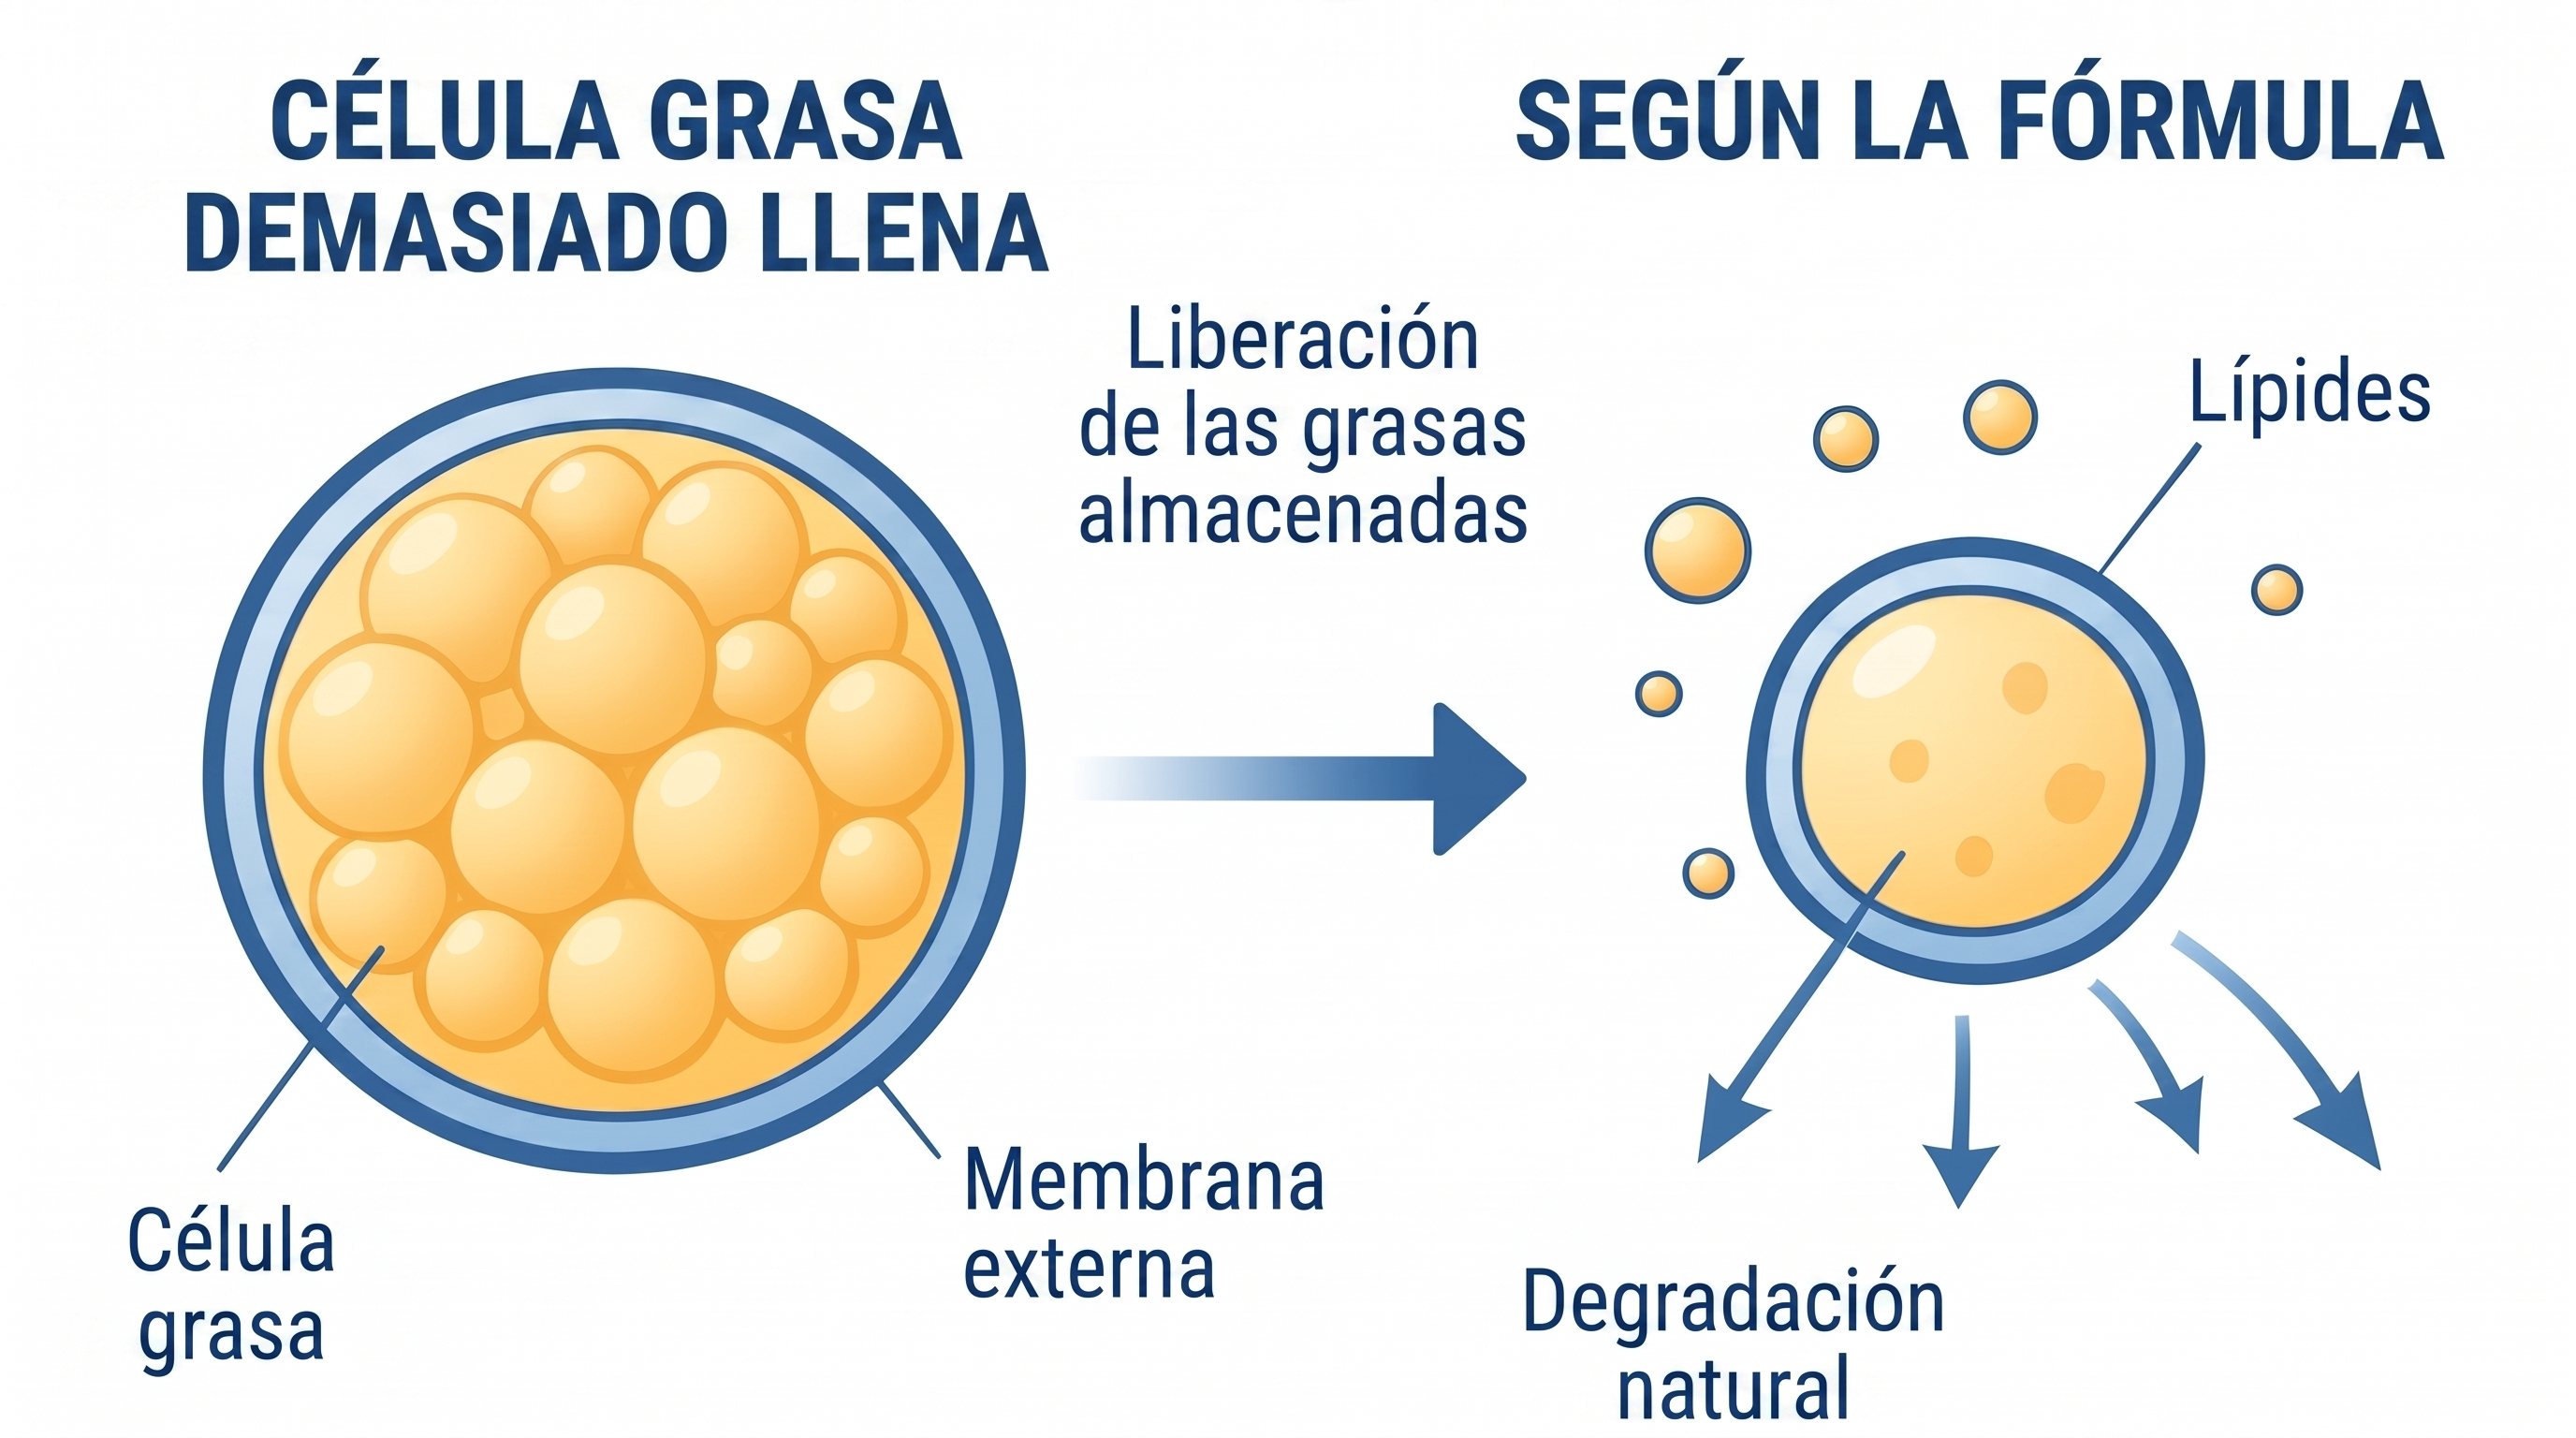
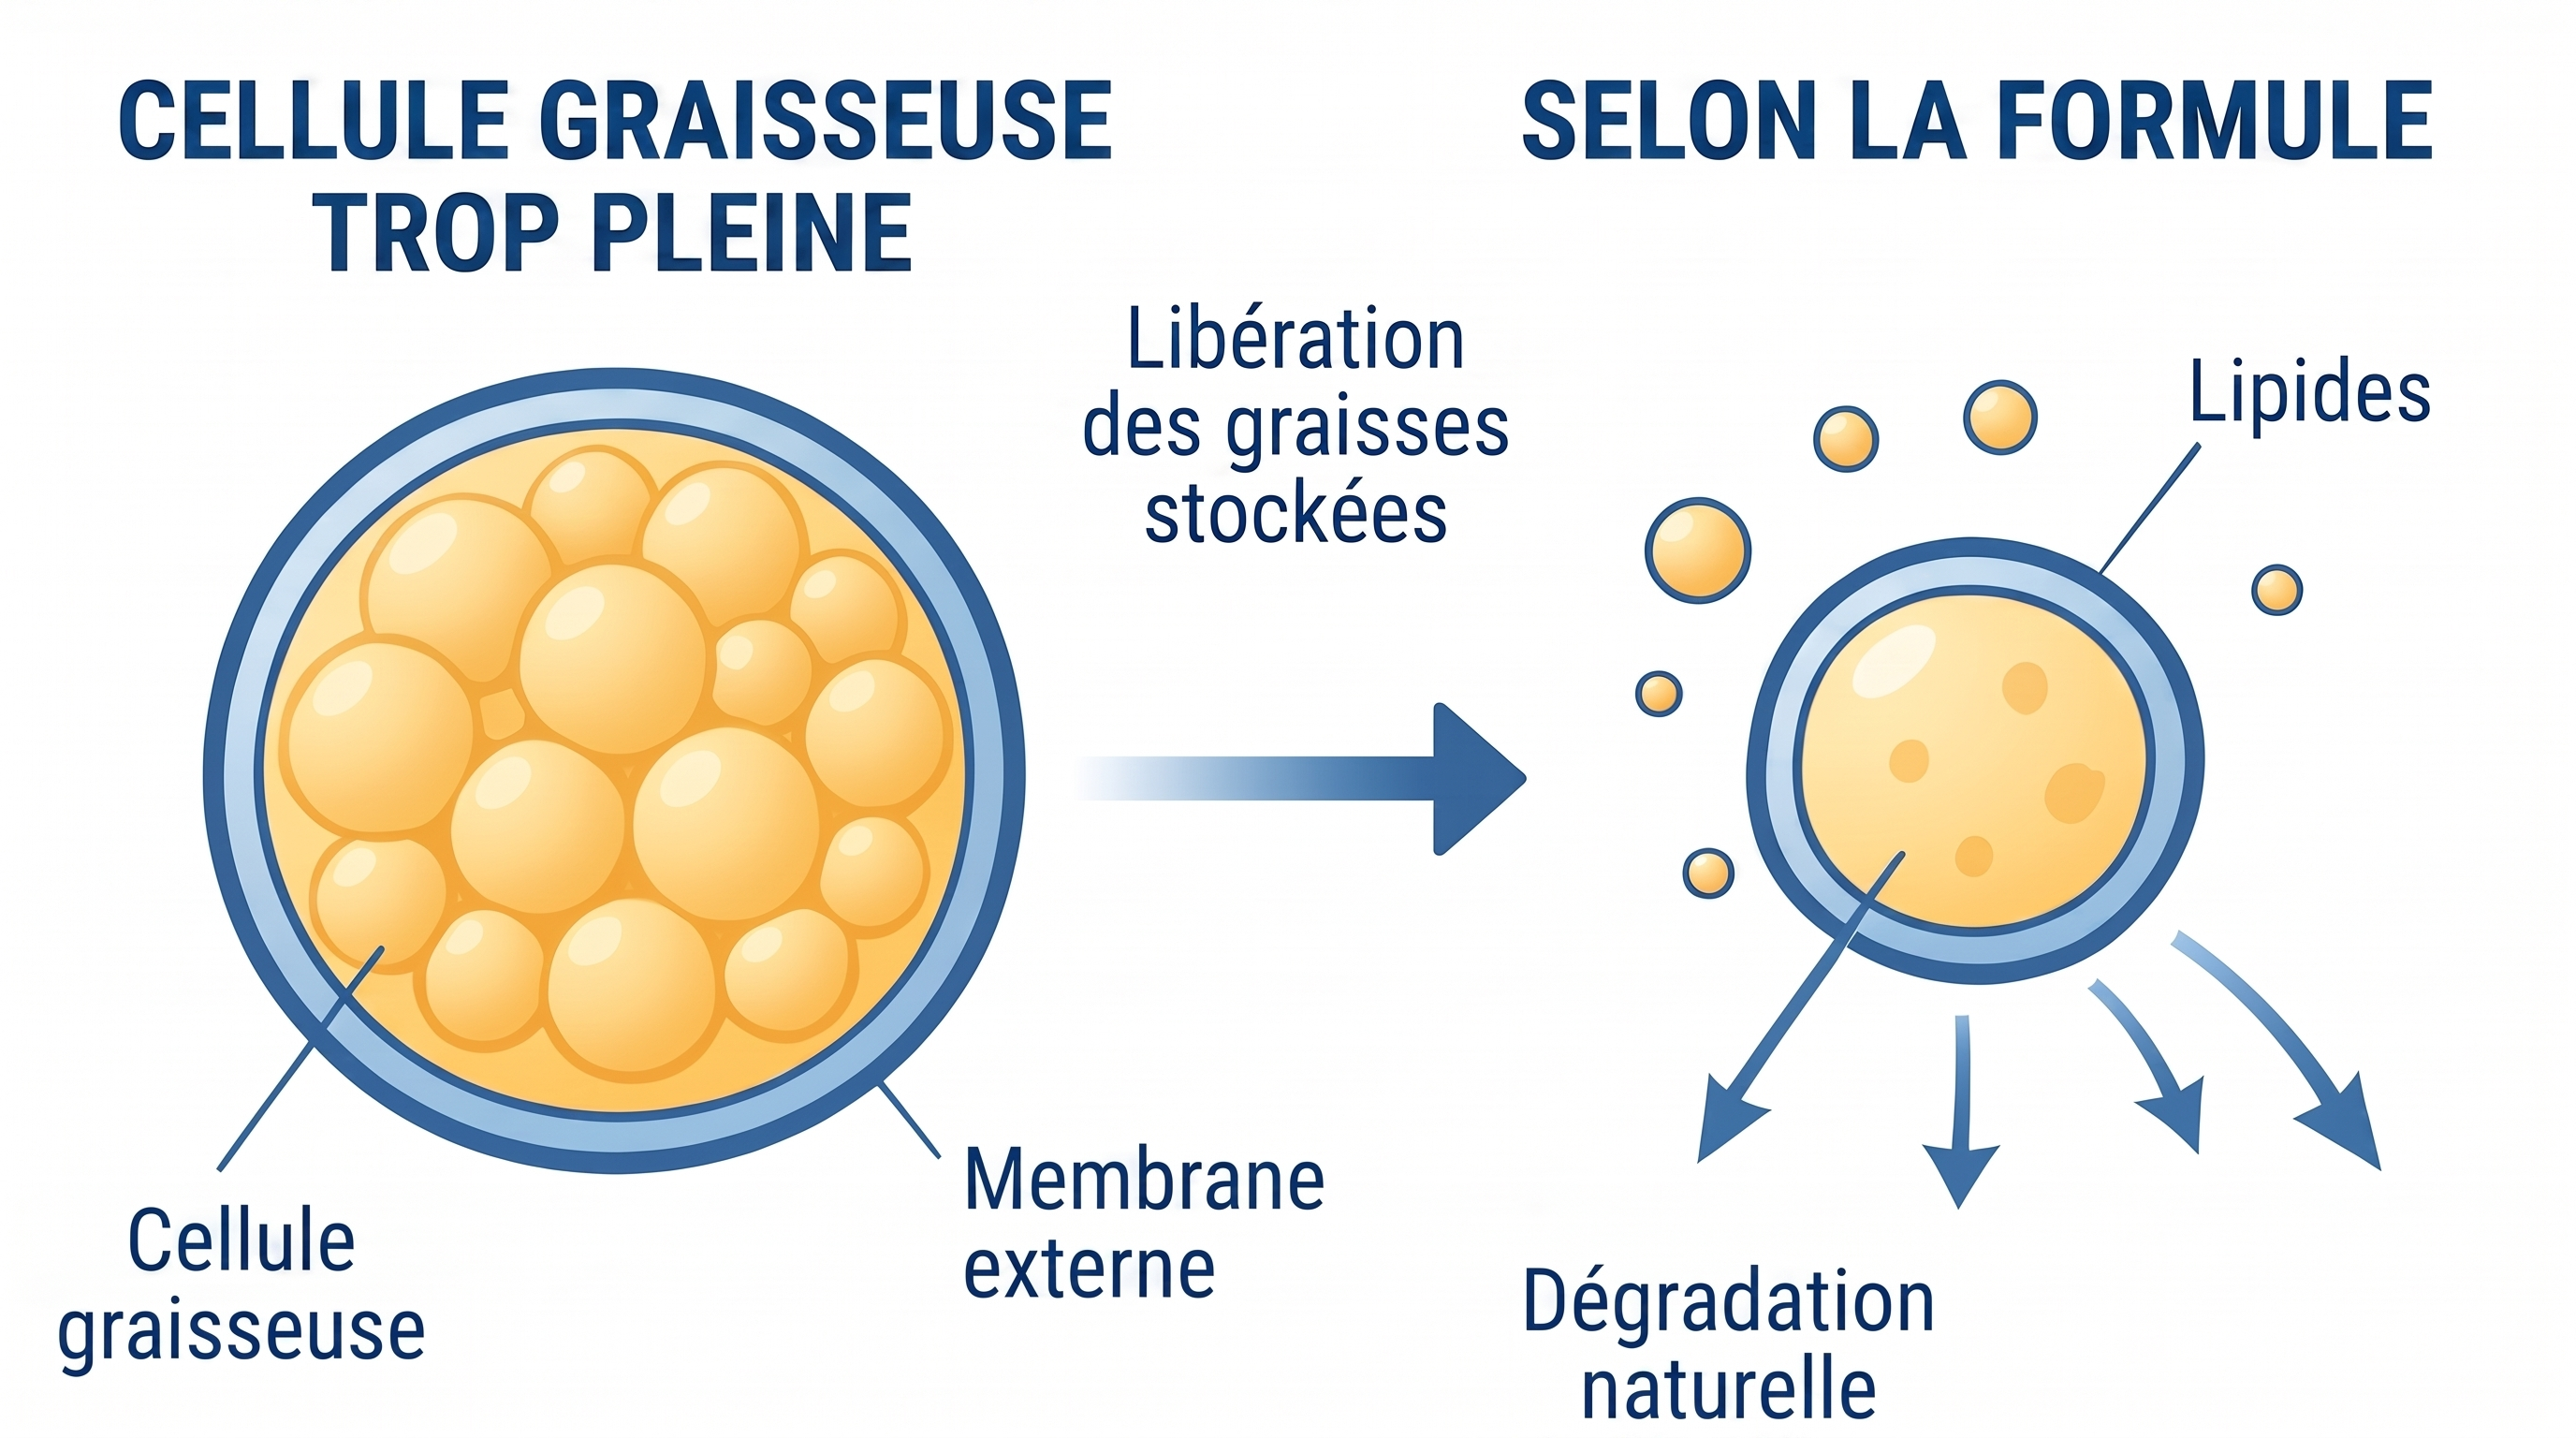
s

diff --git a/osnxnl.html b/osnxnl.html
@@ -309,7 +309,7 @@
             </div>
 
             <figure>
-                <img class="img-fluid" src="../index_files/egfrnpic.png" alt="">
+                <img class="img-fluid" src="../index_files/dutchrating/egfrnpic.png" alt="">
             </figure>
 
             <div class="text">
@@ -396,7 +396,7 @@
                     </figure>
                 </div>
                 <div class="col-sm-6">
-                    <figure><img class="img-fluid" src="../index_files/rating-782x396.jpg" alt=""></figure>
+                    <figure><img class="img-fluid" src="../index_files/dutchrating/rating.png" alt=""></figure>
                     <a href="https://trk.mysmartpick.online/click" class="btn bg-primary-color btn-lg">Naar de fabrikant →</a>
                 </div>
             </div>

diff --git a/ozemdk.html b/ozemdk.html
@@ -309,7 +309,7 @@
             </div>
 
             <figure>
-                <img class="img-fluid" src="../index_files/egfrnpic.png" alt="">
+                <img class="img-fluid" src="../index_files/danishrating/egfrnpic.png" alt="">
             </figure>
 
             <div class="text">
@@ -396,7 +396,7 @@
                     </figure>
                 </div>
                 <div class="col-sm-6">
-                    <figure><img class="img-fluid" src="../index_files/rating-782x396.jpg" alt=""></figure>
+                    <figure><img class="img-fluid" src="../index_files/danishrating/rating.png" alt=""></figure>
                     <a href="https://trk.mysmartpick.online/click" class="btn bg-primary-color btn-lg">Til producenten →</a>
                 </div>
             </div>

diff --git a/ozemno.html b/ozemno.html
@@ -309,7 +309,7 @@
             </div>
 
             <figure>
-                <img class="img-fluid" src="../index_files/egfrnpic.png" alt="">
+                <img class="img-fluid" src="../index_files/norwegianrating/egfrnpic.png" alt="">
             </figure>
 
             <div class="text">
@@ -396,7 +396,7 @@
                     </figure>
                 </div>
                 <div class="col-sm-6">
-                    <figure><img class="img-fluid" src="../index_files/rating-782x396.jpg" alt=""></figure>
+                    <figure><img class="img-fluid" src="../index_files/norwegianrating/rating.jpg" alt=""></figure>
                     <a href="https://trk.mysmartpick.online/click" class="btn bg-primary-color btn-lg">Til produsenten →</a>
                 </div>
             </div>

diff --git a/wegolynnl.html b/wegolynnl.html
@@ -309,7 +309,7 @@
             </div>
 
             <figure>
-                <img class="img-fluid" src="../index_files/egfrnpic.png" alt="">
+                <img class="img-fluid" src="../index_files/dutchrating/egfrnpic.png" alt="">
             </figure>
 
             <div class="text">
@@ -396,7 +396,7 @@
                     </figure>
                 </div>
                 <div class="col-sm-6">
-                    <figure><img class="img-fluid" src="../index_files/rating-782x396.jpg" alt=""></figure>
+                    <figure><img class="img-fluid" src="../index_files/dutchrating/rating.png" alt=""></figure>
                     <a href="https://trk.mysmartpick.online/click" class="btn bg-primary-color btn-lg">Naar de fabrikant →</a>
                 </div>
             </div>

diff --git a/wegolynnor.html b/wegolynnor.html
@@ -309,7 +309,7 @@
             </div>
 
             <figure>
-                <img class="img-fluid" src="../index_files/egfrnpic.png" alt="">
+                <img class="img-fluid" src="../index_files/norwegianrating/egfrnpic.png" alt="">
             </figure>
 
             <div class="text">
@@ -396,7 +396,7 @@
                     </figure>
                 </div>
                 <div class="col-sm-6">
-                    <figure><img class="img-fluid" src="../index_files/rating-782x396.jpg" alt=""></figure>
+                    <figure><img class="img-fluid" src="../index_files/norwegianrating/rating.jpg" alt=""></figure>
                     <a href="https://trk.mysmartpick.online/click" class="btn bg-primary-color btn-lg">Til produsenten →</a>
                 </div>
             </div>

diff --git a/wegonor.html b/wegonor.html
@@ -398,7 +398,7 @@
                     </figure>
                 </div>
                 <div class="col-sm-6">
-                    <figure><img class="img-fluid" src="./index_files/rating-782x396.jpg" alt=""></figure>
+                    <figure><img class="img-fluid" src="./index_files/norwegianrating/rating.jpg" alt=""></figure>
                     <a href="https://trk.toprateddaily.online/click" class="btn bg-primary-color btn-lg">Til produsenten →</a>
                 </div>
             </div>